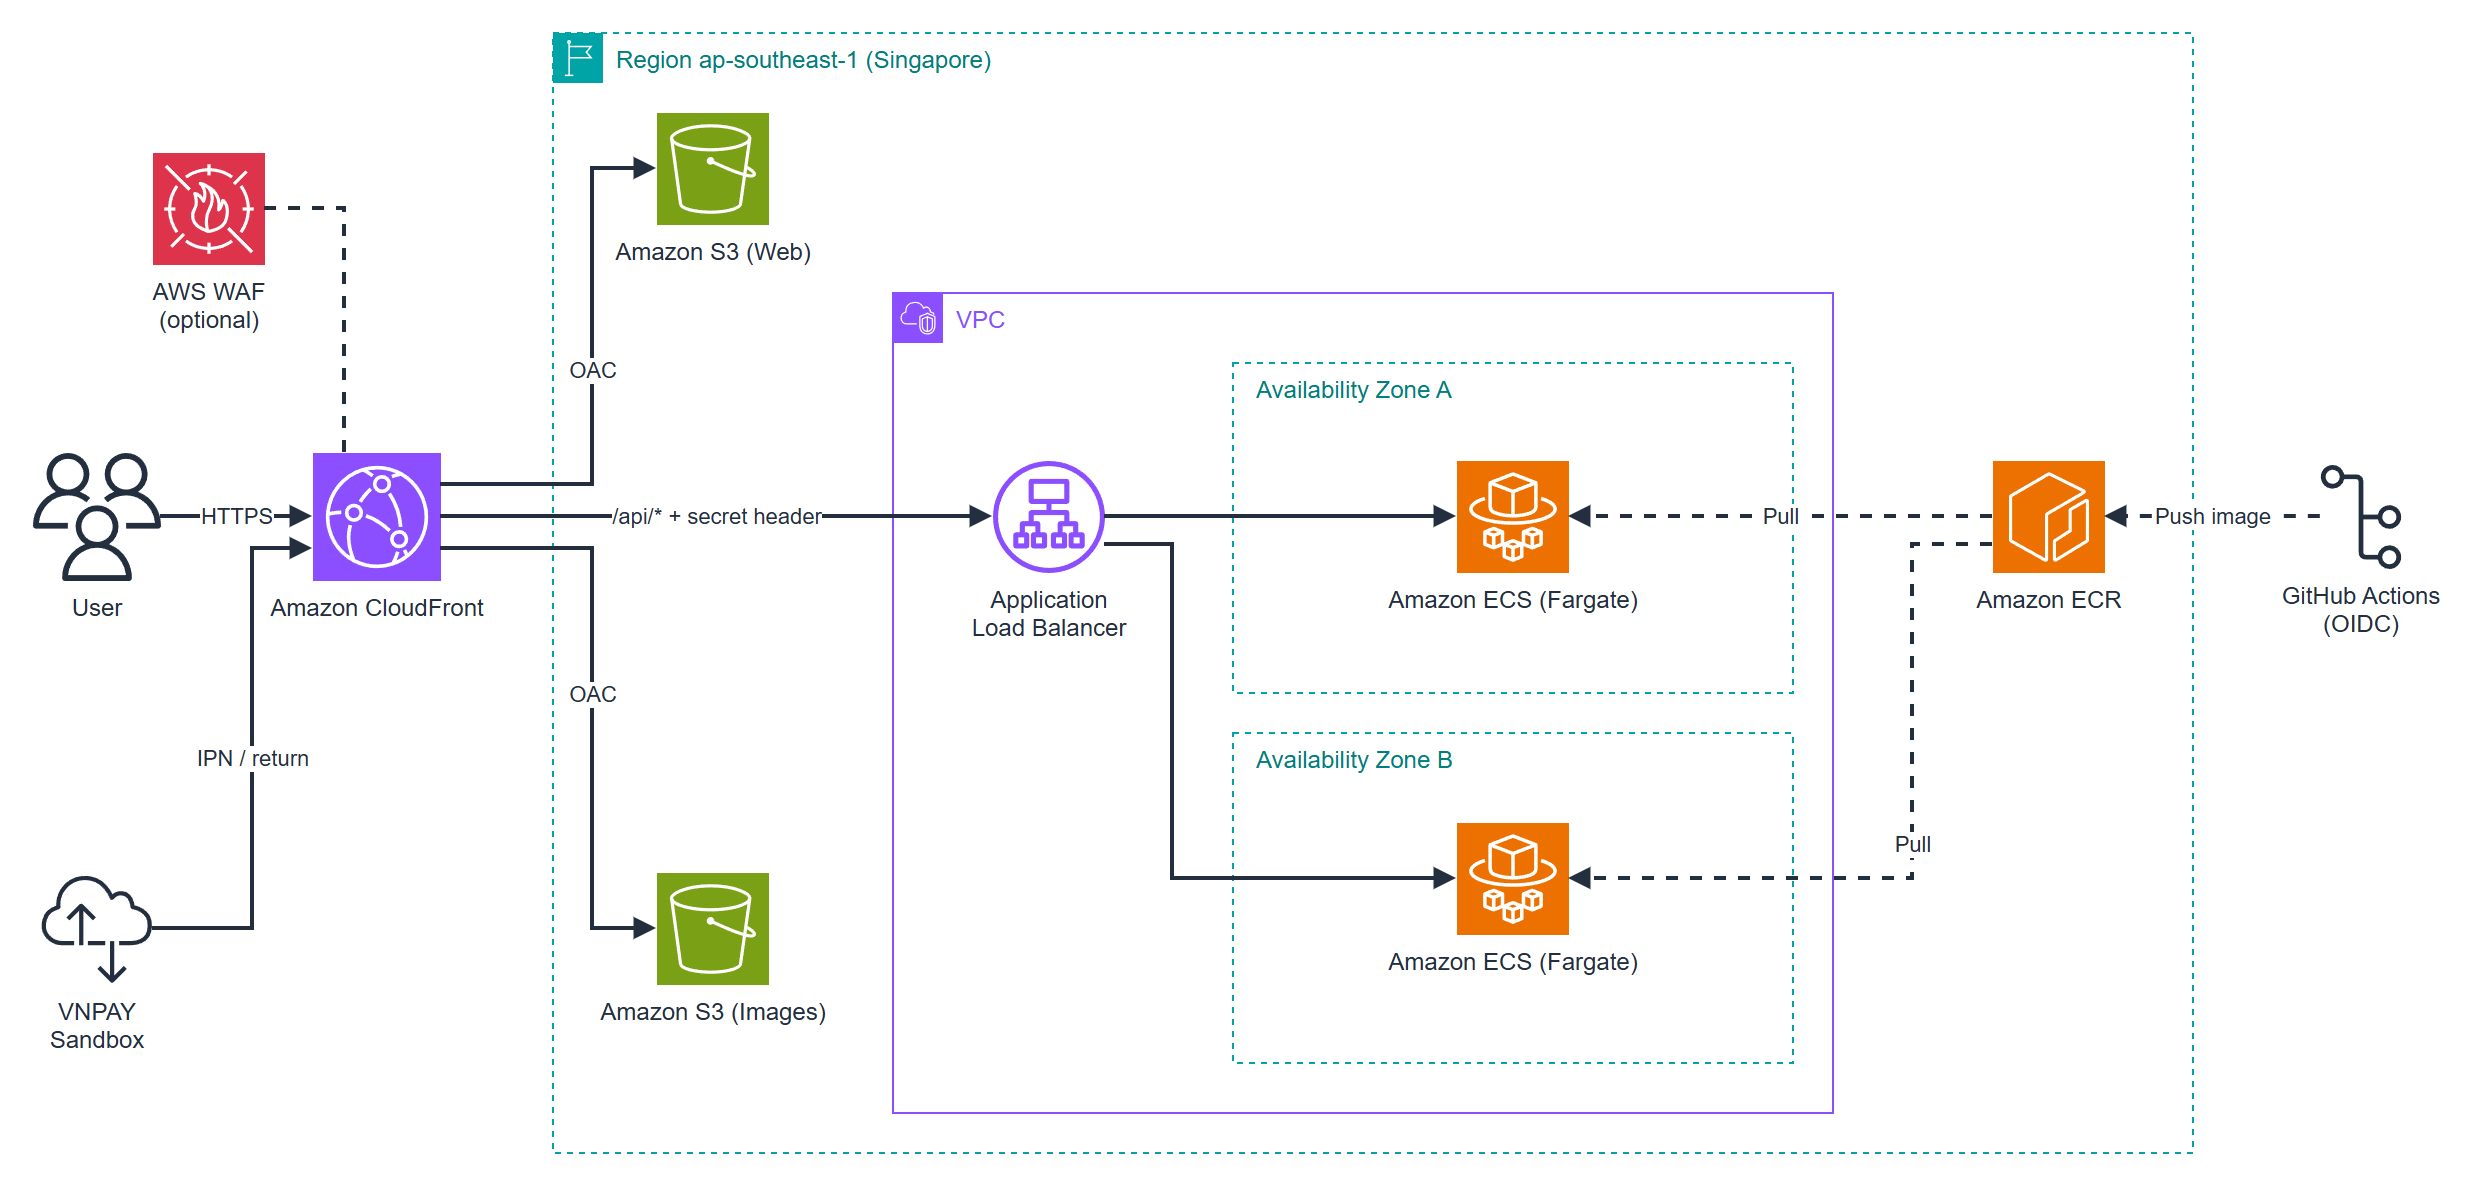
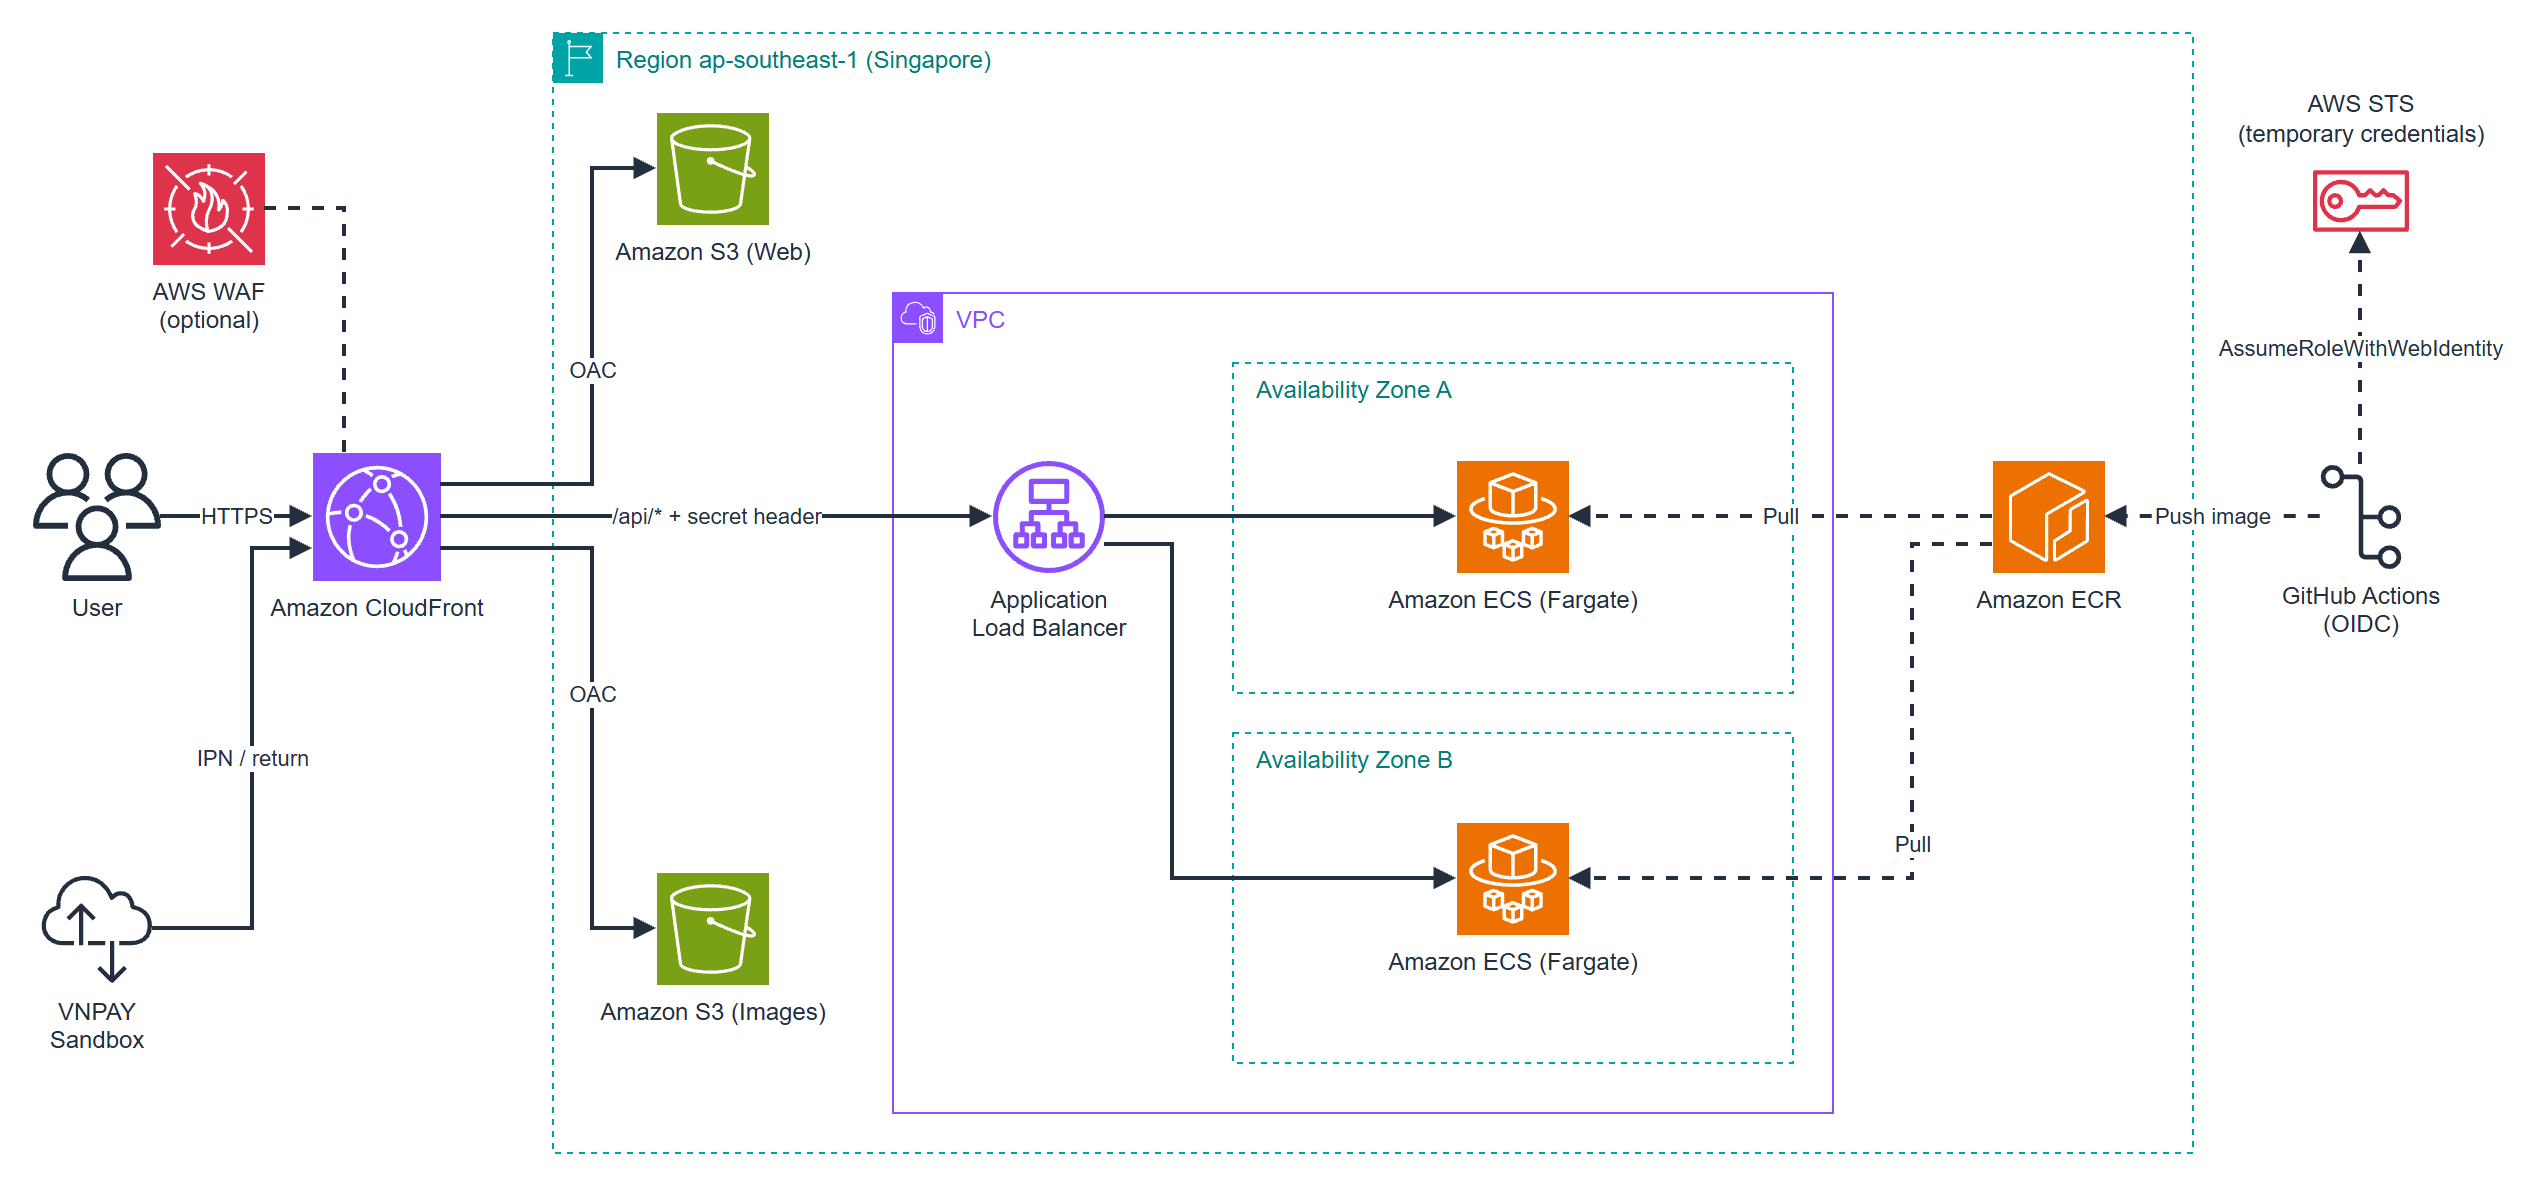
Architecture: show AWS STS in the CI/CD flow
- Add AWS STS to the overall and section 5.4 diagrams (AssumeRoleWithWebIdentity)
- Explain the OIDC to STS temporary-credential exchange in 5.4.3
- Mention STS in the service lists of the proposal and overview

diff --git a/content/vi/2-proposal/index.md b/content/vi/2-proposal/index.md
@@ -31,7 +31,7 @@ Người mua tra cứu thông tin từ DB, lọc theo nhu cầu và xem giới h
 
 ### 3. Kiến trúc giải pháp
 
-:::figure{src="/images/architecture/system-overview.png" alt="AWS architecture reference" caption="Sơ đồ kiến trúc AWS vẽ trên draw.io bằng bộ AWS Architecture Icons, cập nhật Multi-AZ ngày 23/11/2026"}
+:::figure{src="/images/architecture/system-overview.png" alt="AWS architecture reference" caption="Sơ đồ kiến trúc AWS vẽ trên draw.io bằng bộ AWS Architecture Icons, cập nhật Multi-AZ và AWS STS ngày 25/11/2026"}
 
 Từ 22/11/2026 (D33), môi trường dev chạy 2 task ECS, mỗi Availability Zone một task, và RDS ở chế độ Multi-AZ với bản dự phòng (Standby) ở AZ thứ hai. Diễn tập *Reboot with failover* ngày 22/11 chuyển AZ chính từ ap-southeast-1a sang ap-southeast-1b trong khoảng 20–45 giây; API gián đoạn khoảng nửa phút rồi tự phục hồi, không mất dữ liệu.
 
@@ -44,7 +44,7 @@ Từ 22/11/2026 (D33), môi trường dev chạy 2 task ECS, mỗi Availability 
 - **Bedrock + Guardrails** — Nova 2 Lite ở Tokyo; tool chỉ đọc, số liệu do code lấy từ DB.
 - **CloudWatch + SNS + Budgets** — Log 14 ngày, 7 alarm, cảnh báo thư điện tử; ngân sách 100 USD.
 - **CloudTrail + S3 audit + WAF** — Audit và ALB logs lưu 30 ngày; WAF chỉ bật khi demo; KMS do AWS quản lý.
-- **Terraform + IAM + GitHub Actions** — State S3 use_lockfile; SSO, boundary; CI/CD qua OIDC.
+- **Terraform + IAM + STS + GitHub Actions** — State S3 use_lockfile; SSO, boundary; CI/CD qua OIDC, AWS STS cấp quyền tạm thời (AssumeRoleWithWebIdentity), không lưu access key.
 
 Ứng dụng ở ap-southeast-1, tiền tố nutrition-dev, chỉ một môi trường dev. D15 đặt ECS ở public subnet với IP công khai để tránh chi phí NAT, còn RDS giữ private. D17 chọn một môi trường để phù hợp đồ án. D18 chuyển lời gọi Bedrock và Guardrail sang ap-northeast-1 vì quota Singapore của tài khoản bằng 0; profile jp.amazon.nova-2-lite-v1:0. D24/D31 giới hạn model vào searchProducts với intent search, facts, compare, plan; số liệu do backend ghép. CloudFront → ALB hiện dùng HTTP vì chưa có domain riêng.
 
@@ -54,7 +54,7 @@ Từ 22/11/2026 (D33), môi trường dev chạy 2 task ECS, mỗi Availability 
 - Backend Spring Boot 4 / Java 21: catalog quản lý tra cứu; commerce xử lý giỏ/đơn; payments xác minh IPN; ai trích ý định; admin cung cấp API quản trị; profile tính mục tiêu và gợi ý.
 - Database PostgreSQL dùng SQL tham số hóa và Flyway V1–V11.
 - AI dùng Nova 2 Lite với Guardrails; code kiểm bộ lọc và ghép số liệu từ DB.
-- CI/CD GitHub Actions kiểm thử, build ARM64, đẩy ECR và deploy qua OIDC.
+- CI/CD GitHub Actions kiểm thử, build ARM64, lấy quyền tạm thời từ AWS STS qua OIDC, đẩy ECR và deploy.
 
 ### 4. Triển khai kỹ thuật
 

diff --git a/content/en/2-proposal/index.md b/content/en/2-proposal/index.md
@@ -31,7 +31,7 @@ Buyers query DB-sourced facts, filter products, and see data limitations. Store 
 
 ### 3. Solution Architecture
 
-:::figure{src="/images/architecture/system-overview.png" alt="AWS architecture reference" caption="AWS architecture drawn in draw.io with the AWS Architecture Icons, updated for Multi-AZ on 23 November 2026"}
+:::figure{src="/images/architecture/system-overview.png" alt="AWS architecture reference" caption="AWS architecture drawn in draw.io with the AWS Architecture Icons, updated for Multi-AZ and AWS STS on 25 November 2026"}
 
 Since 22 November 2026 (D33) the dev environment runs two ECS tasks, one per Availability Zone, and RDS runs Multi-AZ with a standby in the second AZ. A *Reboot with failover* drill on 22 November moved the primary from ap-southeast-1a to ap-southeast-1b in about 20–45 seconds; the API was interrupted for about half a minute and recovered on its own, with no data loss.
 
@@ -44,7 +44,7 @@ Since 22 November 2026 (D33) the dev environment runs two ECS tasks, one per Ava
 - **Bedrock + Guardrails** — Nova 2 Lite in Tokyo; read-only tool, numerical answers assembled from DB data.
 - **CloudWatch + SNS + Budgets** — 14-day logs, seven alarms, email alerts; USD 100 budget.
 - **CloudTrail + S3 audit + WAF** — Audit and ALB logs retained for 30 days; optional demo WAF; AWS-managed KMS encryption.
-- **Terraform + IAM + GitHub Actions** — S3 state with use_lockfile; SSO, boundary; CI/CD through OIDC.
+- **Terraform + IAM + STS + GitHub Actions** — S3 state with use_lockfile; SSO, boundary; CI/CD through OIDC, with AWS STS issuing temporary credentials (AssumeRoleWithWebIdentity) instead of stored access keys.
 
 The application runs in ap-southeast-1 with the nutrition-dev prefix and one dev environment. D15 places ECS in public subnets with public IPs to avoid NAT charges while RDS stays private. D17 keeps a single environment for the project. D18 moves Bedrock and Guardrail calls to ap-northeast-1 because this account has zero Singapore quota, using jp.amazon.nova-2-lite-v1:0. D24/D31 restrict the model to searchProducts with search, facts, compare, and plan intents; the backend assembles numbers. CloudFront currently reaches the ALB over HTTP because a custom domain is not configured.
 
@@ -54,7 +54,7 @@ The application runs in ap-southeast-1 with the nutrition-dev prefix and one dev
 - Spring Boot 4 / Java 21 backend packages include catalog for lookup, commerce for carts/orders, payments for IPN validation, ai for intent extraction, admin for administration APIs, and profile for targets and suggestions.
 - PostgreSQL uses parameterized SQL and Flyway V1–V11.
 - AI uses Nova 2 Lite with Guardrails; code validates filters and assembles DB-derived numbers.
-- GitHub Actions runs tests, builds ARM64 images, pushes ECR, and deploys through OIDC.
+- GitHub Actions runs tests, builds ARM64 images, obtains temporary credentials from AWS STS through OIDC, pushes to ECR, and deploys.
 
 ### 4. Technical Implementation
 

diff --git a/content/vi/5-workshop/5.1-workshop-overview/index.md b/content/vi/5-workshop/5.1-workshop-overview/index.md
@@ -15,7 +15,7 @@ Nova 2 Lite diễn giải yêu cầu thành tool chỉ đọc. Code ghép số l
 
 #### Workshop overview
 
-:::figure{src="/images/architecture/system-overview.png" alt="AWS architecture reference" caption="Sơ đồ kiến trúc AWS vẽ trên draw.io bằng bộ AWS Architecture Icons, cập nhật Multi-AZ ngày 23/11/2026"}
+:::figure{src="/images/architecture/system-overview.png" alt="AWS architecture reference" caption="Sơ đồ kiến trúc AWS vẽ trên draw.io bằng bộ AWS Architecture Icons, cập nhật Multi-AZ và AWS STS ngày 25/11/2026"}
 
 Tải file draw.io gốc để xem và chỉnh sửa: [aws-architecture.drawio](/files/aws-architecture.drawio).
 
@@ -30,7 +30,7 @@ Từ 22/11/2026 (D33), môi trường dev chạy 2 task ECS, mỗi Availability 
 | Bedrock + Guardrails | Nova 2 Lite ở Tokyo; tool chỉ đọc, số liệu do code lấy từ DB |
 | CloudWatch + SNS + Budgets | Log 14 ngày, 7 alarm, cảnh báo thư điện tử; ngân sách 100 USD |
 | CloudTrail + S3 audit + WAF | Audit và ALB logs lưu 30 ngày; WAF chỉ bật khi demo; KMS do AWS quản lý |
-| Terraform + IAM + GitHub Actions | State S3 use_lockfile; SSO, boundary; CI/CD qua OIDC |
+| Terraform + IAM + STS + GitHub Actions | State S3 use_lockfile; SSO, boundary; CI/CD qua OIDC, AWS STS cấp quyền tạm thời |
 
 Đọc sơ đồ và quyết định D15/D17/D18. React và API đi qua CloudFront. Cognito cấp JWT; ALB chuyển yêu cầu tới Spring Boot trên ECS. Catalog, giỏ và đơn dùng RDS. Bộ gợi ý D32 tính bằng code, model chỉ chọn intent.
 

diff --git a/content/en/5-workshop/5.1-workshop-overview/index.md b/content/en/5-workshop/5.1-workshop-overview/index.md
@@ -15,7 +15,7 @@ Nova 2 Lite translates requests into a read-only tool. Code assembles numbers fr
 
 #### Workshop overview
 
-:::figure{src="/images/architecture/system-overview.png" alt="AWS architecture reference" caption="AWS architecture drawn in draw.io with the AWS Architecture Icons, updated for Multi-AZ on 23 November 2026"}
+:::figure{src="/images/architecture/system-overview.png" alt="AWS architecture reference" caption="AWS architecture drawn in draw.io with the AWS Architecture Icons, updated for Multi-AZ and AWS STS on 25 November 2026"}
 
 Download the editable draw.io source: [aws-architecture.drawio](/files/aws-architecture.drawio).
 
@@ -30,7 +30,7 @@ Since 22 November 2026 (D33) the dev environment runs two ECS tasks, one per Ava
 | Bedrock + Guardrails | Nova 2 Lite in Tokyo; read-only tool, numerical answers assembled from DB data |
 | CloudWatch + SNS + Budgets | 14-day logs, seven alarms, email alerts; USD 100 budget |
 | CloudTrail + S3 audit + WAF | Audit and ALB logs retained for 30 days; optional demo WAF; AWS-managed KMS encryption |
-| Terraform + IAM + GitHub Actions | S3 state with use_lockfile; SSO, boundary; CI/CD through OIDC |
+| Terraform + IAM + STS + GitHub Actions | S3 state with use_lockfile; SSO, boundary; CI/CD through OIDC with AWS STS temporary credentials |
 
 Read the diagram and decisions D15/D17/D18. CloudFront serves React and forwards API calls. Cognito issues JWTs and the ALB routes requests to Spring Boot on ECS. Catalog, carts, and orders use RDS. D32 suggestions are computed by code while the model selects an intent.
 

diff --git a/content/en/5-workshop/5.4-deploy-app/5.4.3-cicd/index.md b/content/en/5-workshop/5.4-deploy-app/5.4.3-cicd/index.md
@@ -9,7 +9,7 @@ Verify and deploy using short-lived OIDC credentials.
 
 1. **Review the source configuration**
 
-ci.yml runs Terraform fmt/validate, backend verify, and frontend checks. deploy.yml runs on master or workflow_dispatch, assumes an OIDC role, builds ARM64 images, and pushes SHA and latest tags to ECR. If ECS is off, it only publishes the image and the next up uses latest. Frontend deployment builds, syncs S3, and invalidates index.html. Set repository variables according to infra/README.md.
+ci.yml runs Terraform fmt/validate, backend verify, and frontend checks. deploy.yml runs on master or workflow_dispatch. The workflow requests an OIDC token from GitHub and calls AWS STS (`sts:AssumeRoleWithWebIdentity`) to exchange it for temporary credentials of the `nutrition-dev-github-deploy` role; the trust policy accepts only tokens from the master branch of the project repository, and the credentials expire after about one hour, so GitHub stores no access keys. The workflow then builds ARM64 images, and pushes SHA and latest tags to ECR. If ECS is off, it only publishes the image and the next up uses latest. Frontend deployment builds, syncs S3, and invalidates index.html. Set repository variables according to infra/README.md.
 
 [`infra/modules/github-oidc/main.tf`](https://github.com/trungnguyen-VNTN/nutrition-ecommerce/blob/master/infra/modules/github-oidc/main.tf)
 

diff --git a/content/vi/5-workshop/5.4-deploy-app/5.4.3-cicd/index.md b/content/vi/5-workshop/5.4-deploy-app/5.4.3-cicd/index.md
@@ -9,7 +9,7 @@ Kiểm tra và deploy mà không lưu access key dài hạn.
 
 1. **Đối chiếu cấu hình nguồn**
 
-ci.yml chạy Terraform fmt/validate, backend verify và frontend checks. deploy.yml chạy trên master hoặc workflow_dispatch, assume role OIDC, build image ARM64, đẩy tag SHA và latest vào ECR. Nếu ECS đang tắt thì chỉ đẩy image; up dùng latest. Frontend build, sync S3 và invalidate index.html. Điền repository variables theo infra/README.md.
+ci.yml chạy Terraform fmt/validate, backend verify và frontend checks. deploy.yml chạy trên master hoặc workflow_dispatch. Workflow xin GitHub một token OIDC rồi gọi AWS STS (`sts:AssumeRoleWithWebIdentity`) để đổi lấy quyền tạm thời của role `nutrition-dev-github-deploy`; trust policy chỉ chấp nhận token của nhánh master trong repo dự án, và quyền hết hạn sau khoảng 1 giờ nên GitHub không phải lưu access key. Sau đó workflow build image ARM64, đẩy tag SHA và latest vào ECR. Nếu ECS đang tắt thì chỉ đẩy image; up dùng latest. Frontend build, sync S3 và invalidate index.html. Điền repository variables theo infra/README.md.
 
 [`infra/modules/github-oidc/main.tf`](https://github.com/trungnguyen-VNTN/nutrition-ecommerce/blob/master/infra/modules/github-oidc/main.tf)
 

diff --git a/content/vi/5-workshop/5.4-deploy-app/index.md b/content/vi/5-workshop/5.4-deploy-app/index.md
@@ -5,9 +5,9 @@ weight: 4
 status: "ready"
 ---
 
-Triển khai backend ARM64, web React và thanh toán thử. Pipeline dùng role OIDC để lấy phiên AWS tạm thời.
+Triển khai backend ARM64, web React và thanh toán thử. Pipeline dùng token OIDC của GitHub, được AWS STS đổi lấy phiên AWS tạm thời của role deploy.
 
-:::figure{src="/images/architecture/5.4-deploy-app.png" alt="5.4-deploy-app" caption="Sơ đồ thành phần: CloudFront → S3 / ALB → 2 task ECS, ECR, GitHub Actions OIDC, VNPAY"}
+:::figure{src="/images/architecture/5.4-deploy-app.png" alt="5.4-deploy-app" caption="Sơ đồ thành phần: CloudFront → S3 / ALB → 2 task ECS, ECR, GitHub Actions OIDC qua AWS STS, VNPAY"}
 
 File draw.io để chỉnh sửa: [5.4-deploy-app.drawio](/files/5.4-deploy-app.drawio).
 

diff --git a/content/en/5-workshop/5.4-deploy-app/index.md b/content/en/5-workshop/5.4-deploy-app/index.md
@@ -5,9 +5,9 @@ weight: 4
 status: "ready"
 ---
 
-Deploy the ARM64 backend, React frontend, and sandbox payments. The pipeline obtains temporary AWS sessions through OIDC.
+Deploy the ARM64 backend, React frontend, and sandbox payments. The pipeline exchanges its GitHub OIDC token with AWS STS for a temporary session of the deploy role.
 
-:::figure{src="/images/architecture/5.4-deploy-app.png" alt="5.4-deploy-app" caption="Component diagram: CloudFront → S3 / ALB → two ECS tasks, ECR, GitHub Actions OIDC, VNPAY"}
+:::figure{src="/images/architecture/5.4-deploy-app.png" alt="5.4-deploy-app" caption="Component diagram: CloudFront → S3 / ALB → two ECS tasks, ECR, GitHub Actions OIDC through AWS STS, VNPAY"}
 
 Editable draw.io source: [5.4-deploy-app.drawio](/files/5.4-deploy-app.drawio).
 
